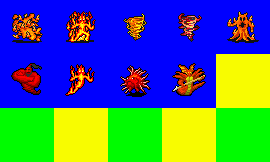
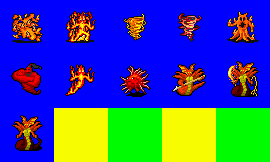
Added salamanders

Changed region(s): [[0.8, 0.3086, 1.0, 0.679], [0.0, 0.6481, 0.2074, 1.0]]

diff --git a/monsters/ignan.py b/monsters/ignan.py
@@ -10,6 +10,7 @@ import targetarea
 import invocations
 import animals
 import enchantments
+import spells
 
 #  *******************************
 #  ***   ENCOUNTER  LEVEL  1   ***
@@ -44,6 +45,29 @@ import enchantments
 #  ***   ENCOUNTER  LEVEL  8   ***
 #  *******************************
 
+class Salamander( base.Monster ):
+    name = "Salamander"
+    statline = { stats.STRENGTH: 15, stats.TOUGHNESS: 14, stats.REFLEXES: 14, \
+        stats.INTELLIGENCE: 13, stats.PIETY: 15, stats.CHARISMA: 13 }
+    SPRITENAME = "monster_e_fire.png"
+    FRAME = 8
+    TEMPLATES = (stats.ELEMENTAL,stats.FIRE)
+    MOVE_POINTS = 6
+    HABITAT = ( context.HAB_EVERY, context.SET_EVERY,
+     context.DES_FIRE,
+     context.MTY_HUMANOID, context.MTY_FIGHTER )
+    ENC_LEVEL = 8
+
+    ATTACK = items.Attack( (1,8,0), element = stats.RESIST_PIERCING, reach=2, extra_effect =
+        effects.HealthDamage( (1,8,0), stat_bonus=stats.INTELLIGENCE, element=stats.RESIST_FIRE)
+    )
+
+    TECHNIQUES = ( spells.firespells.EXPLOSION, )
+
+    def init_monster( self ):
+        self.levels.append( base.Humanoid( 8, self ) )
+
+
 #  *******************************
 #  ***   ENCOUNTER  LEVEL  9   ***
 #  *******************************
@@ -55,6 +79,31 @@ import enchantments
 #  ********************************
 #  ***   ENCOUNTER  LEVEL  11   ***
 #  ********************************
+
+class SalamanderLeader( base.Monster ):
+    name = "Salamander Leader"
+    statline = { stats.STRENGTH: 24, stats.TOUGHNESS: 16, stats.REFLEXES: 14, \
+        stats.INTELLIGENCE: 16, stats.PIETY: 17, stats.CHARISMA: 15 }
+    SPRITENAME = "monster_e_fire.png"
+    FRAME = 9
+    TEMPLATES = (stats.ELEMENTAL,stats.FIRE)
+    MOVE_POINTS = 6
+    HABITAT = ( context.HAB_EVERY, context.SET_EVERY,
+     context.DES_FIRE,
+     context.MTY_HUMANOID, context.MTY_LEADER )
+    ENC_LEVEL = 11
+    LONER = True
+    COMPANIONS = (Salamander,)
+
+    ATTACK = items.Attack( (2,8,0), element = stats.RESIST_SLASHING, extra_effect =
+        effects.HealthDamage( (1,8,0), stat_bonus=stats.INTELLIGENCE, element=stats.RESIST_FIRE)
+    )
+
+    TECHNIQUES = ( spells.firespells.PYROTECHNICS, spells.airspells.DISPEL_MAGIC )
+
+    def init_monster( self ):
+        self.levels.append( base.Humanoid( 11, self ) )
+
 
 #  ********************************
 #  ***   ENCOUNTER  LEVEL  12   ***
